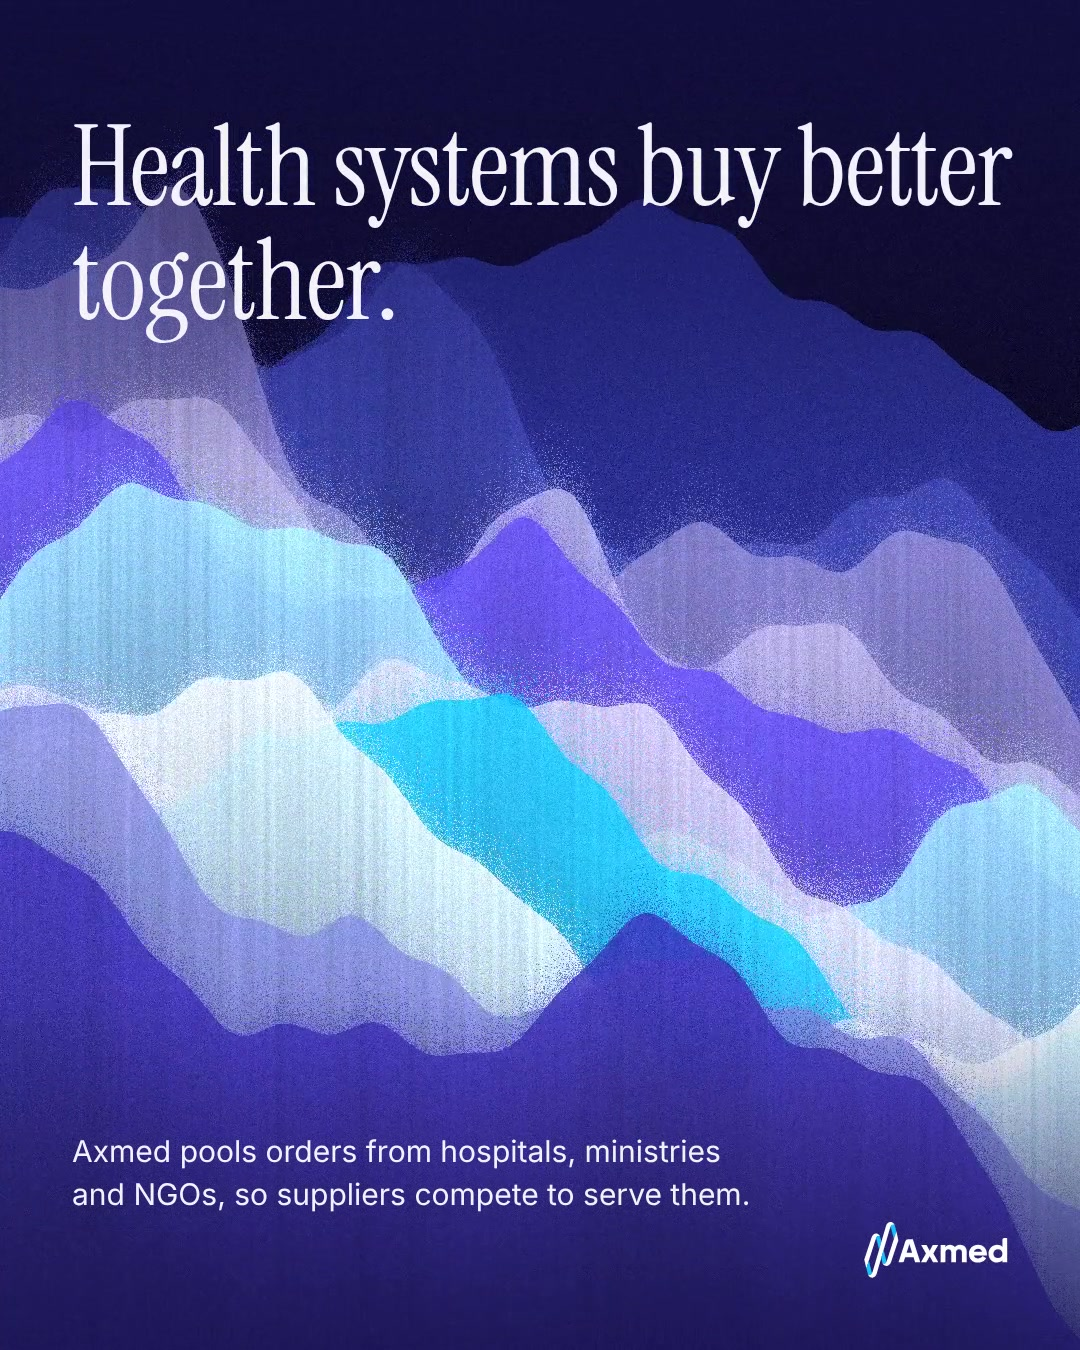
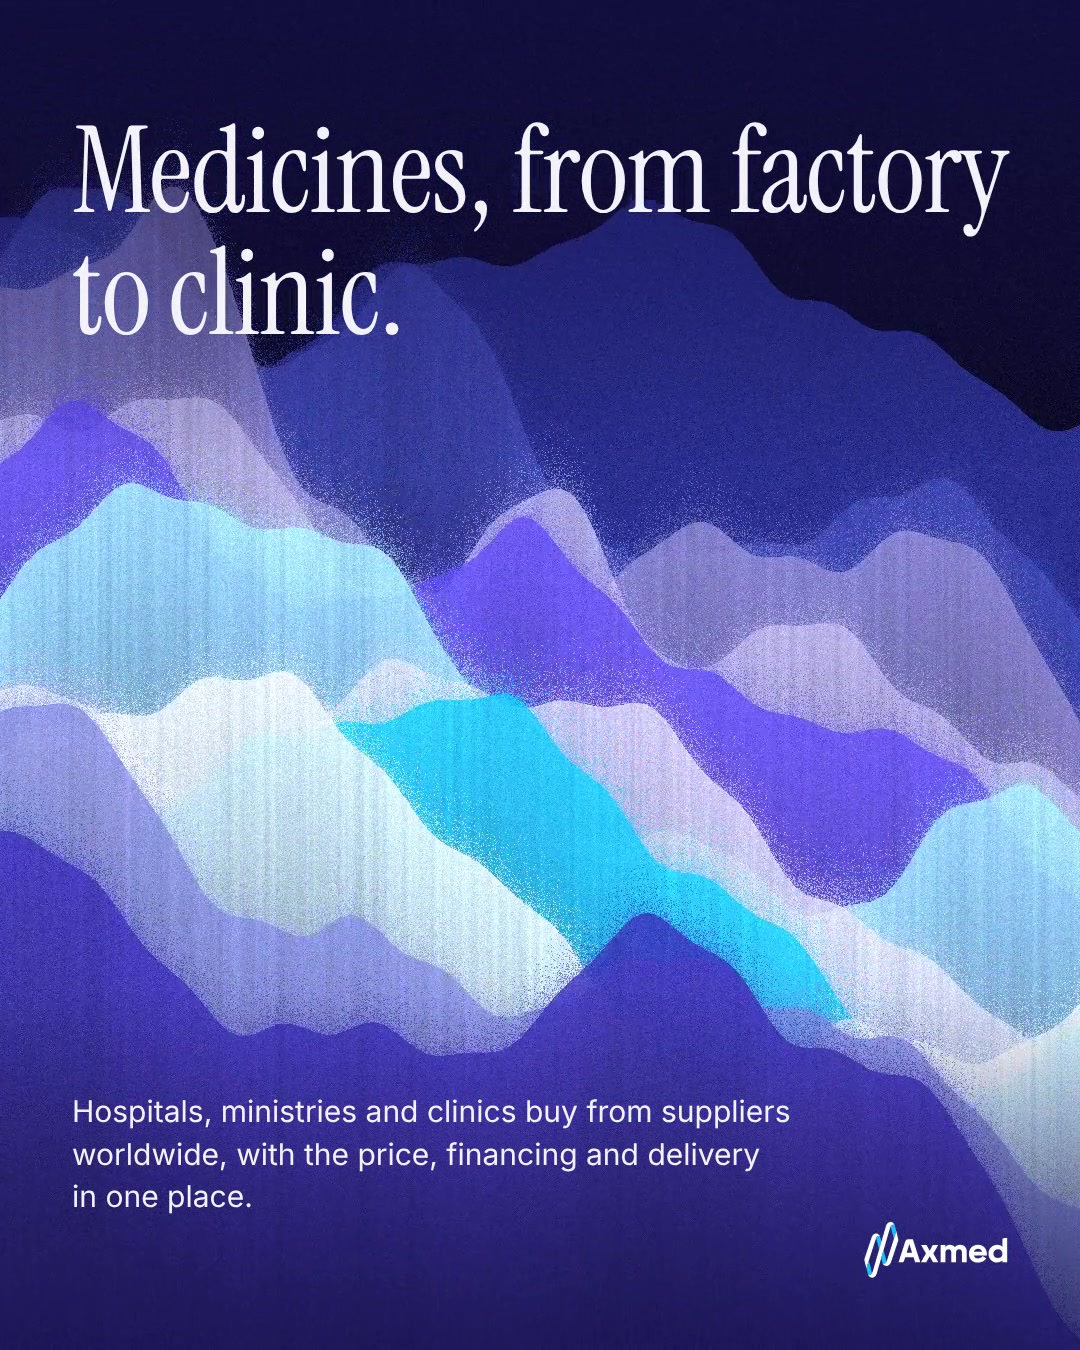
LinkedIn post: Medicines, from factory to clinic (website messaging)
Claude-Session: https://claude.ai/code/session_01N2nxpaXdM1CLJ6ZqZj75QE

Changed region(s): [[0.0611, 0.0933, 0.9472, 0.2489], [0.0611, 0.8089, 0.7333, 0.9022]]

diff --git a/content/linkedin/strata-one-route/overlay.html b/content/linkedin/strata-one-route/overlay.html
@@ -1,4 +1,4 @@
-<!DOCTYPE html><html lang="en"><head><meta charset="utf-8"><title>Health systems buy better together.</title>
+<!DOCTYPE html><html lang="en"><head><meta charset="utf-8"><title>Medicines, from factory to clinic.</title>
 <meta name="description" content="LinkedIn post overlay: Many lists. One route.">
 <link rel="stylesheet" href="../../../brand/system.css">
 <style>html,body{background:transparent} .w{display:inline-block}</style>
@@ -15,7 +15,7 @@ window.at = t => {
 <section class="slide field" style="background:transparent">
   <div class="scrim" style="left:0;right:0;top:0;height:470px;background:linear-gradient(var(--scrim) 0%, var(--scrim-soft) 60%, transparent 100%)"></div>
   <div class="scrim" style="left:0;right:0;bottom:0;height:360px;background:linear-gradient(transparent 0%, var(--scrim) 100%)"></div>
-  <h1 class="head l" style="left:72px;top:110px;width:940px;font-size:112px;color:var(--on-indigo)"><span class="w">Health</span> <span class="w">systems</span> <span class="w">buy</span> <span class="w">better</span> <span class="w">together.</span></h1>
-  <p class="lead sub" style="left:72px;top:1130px;width:700px;color:var(--on-indigo)">Axmed pools orders from hospitals, ministries and NGOs, so suppliers compete to serve them.</p>
+  <h1 class="head l" style="left:72px;top:110px;width:940px;font-size:120px;color:var(--on-indigo)"><span class="w">Medicines,</span> <span class="w">from</span> <span class="w">factory</span> <span class="w">to</span> <span class="w">clinic.</span></h1>
+  <p class="lead sub" style="left:72px;top:1090px;width:720px;color:var(--on-indigo)">Hospitals, ministries and clinics buy from suppliers worldwide, with the price, financing and delivery in one place.</p>
   <div class="brand" style="right:72px;left:auto;bottom:72px"></div>
 </section></body></html>

diff --git a/content/linkedin/strata-one-route/caption.md b/content/linkedin/strata-one-route/caption.md
@@ -1,26 +1,27 @@
-# LinkedIn post: "Health systems buy better together."
+# LinkedIn post: "Medicines, from factory to clinic."
 
 **Format:** video post (8 s, 1080×1350: moving strata, headline builds word by word, then the line and the logo), `post.mp4` · still fallback `post.jpg`
 **Channel:** Axmed company page · **Asset:** brand, always-on
+**Source of the messaging:** axmed.com (home hero, Solutions: "moves an order from a factory to a clinic", Logistics: "every shipment tracked")
 
 ## Caption
 
-Health systems buy better together.
+Medicines, from factory to clinic.
 
-A district hospital orders on its own. So does the ministry, and so does the NGO down the road. Each list on its own is too small for suppliers to compete for.
+Medicines exist. The path to the people who need them is too often broken.
 
-Axmed pools those lists into orders worth competing for, then brings the whole order through one route: quoted, quality-checked and tracked to every facility.
+Through Axmed, hospitals, ministries and clinics in low- and middle-income countries buy medicines and health products from suppliers worldwide, with the price, the financing and the delivery in one place. Every shipment is tracked from dispatch to delivery.
 
-Planning your 2027 procurement? Send us your list as it is.
-→ axmed.com/buy (utm_source=linkedin&utm_medium=organic&utm_campaign=brand&utm_content=strata-one-route)
+Accelerating access to healthcare for all.
+→ axmed.com (utm_source=linkedin&utm_medium=organic&utm_campaign=brand&utm_content=factory-to-clinic)
 
-#GlobalHealth #HealthProcurement #AccessToMedicines
+#GlobalHealth #AccessToMedicines #HealthProcurement
 
 ## Alt text
 
-Layers of indigo, lilac and cyan settle into one landscape. Headline: Health systems buy better together. Axmed pools orders from hospitals, ministries and NGOs, so suppliers compete to serve them. Axmed logo.
+Layers of indigo, lilac and cyan settle into one landscape. Headline: Medicines, from factory to clinic. Line: Hospitals, ministries and clinics buy from suppliers worldwide, with the price, financing and delivery in one place. Axmed logo.
 
 ## Notes
 
-- Claims are from axmed.com copy (pooled demand, one route), no numbers, so no fact-sheet sign-off needed.
-- Built from `brand/strata` (motion) + `content/linkedin/strata-one-route/overlay.html`; Hallmark lint clean.
+- Every claim is wording from axmed.com; no numbers, so no fact-sheet sign-off needed.
+- Built from `brand/strata` (motion) + `overlay.html` (animated text); Hallmark lint clean.
